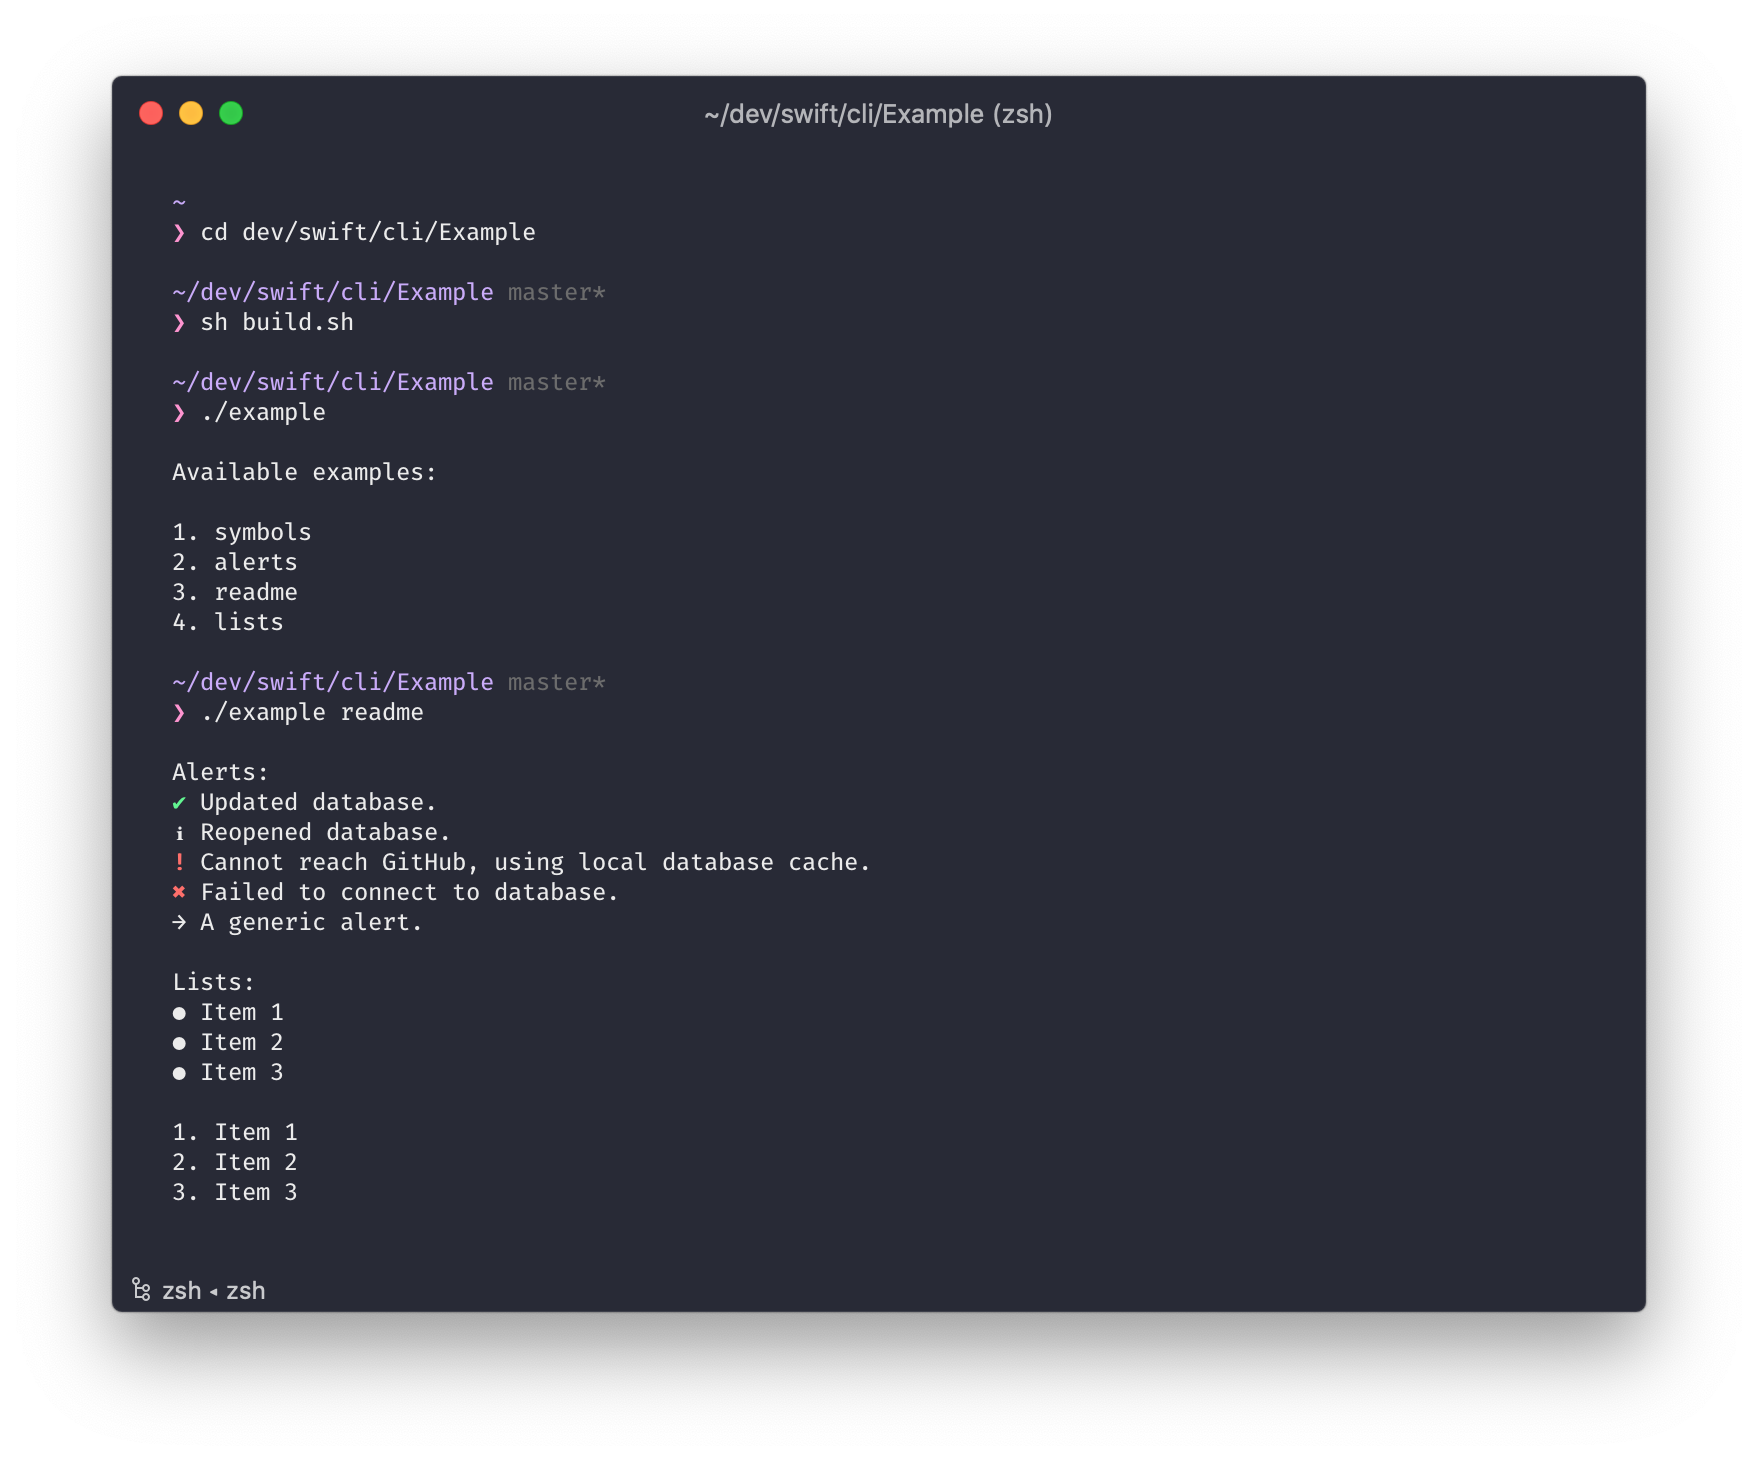
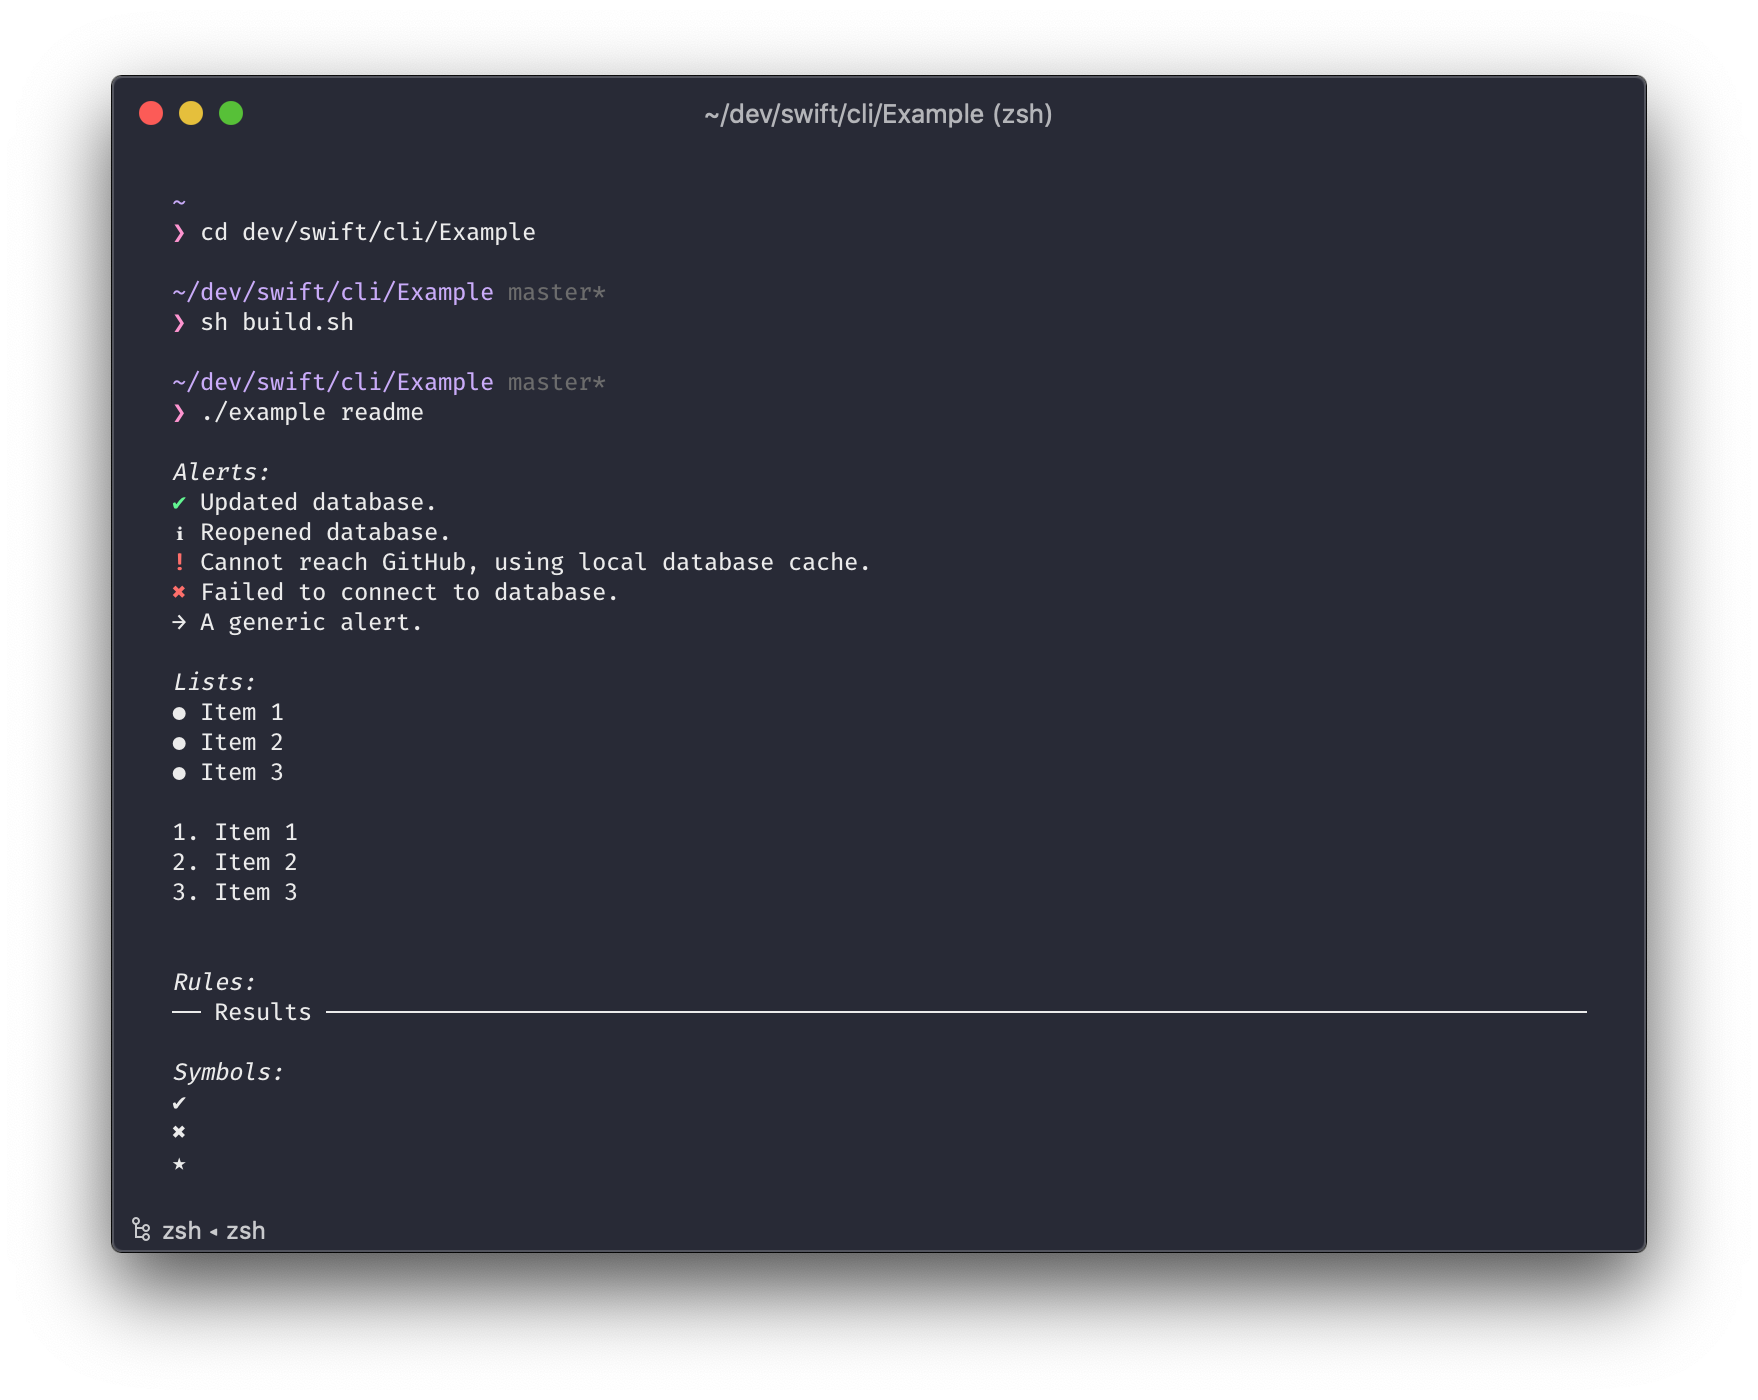
add rules, clean up tomorrow

diff --git a/Example/main.swift b/Example/main.swift
@@ -105,6 +105,9 @@ func PrintReadme() {
     print(UnorderedList("Item 1", "Item 2", "Item 3"))
     print(OrderedList("Item 1", "Item 2", "Item 3"))
     
+    print("\nRules:".italic())
+    print(Rule("Results"))
+    
     print("\nSymbols:".italic())
     print(Symbols.tick)
     print(Symbols.cross)
@@ -121,6 +124,12 @@ func PrintLists() {
     print(OrderedList("Item 1", "Item 2", "Item 3"))
 }
 
+func PrintRules() {
+    print("\nRules\n")
+    
+    print(Rule("Results"))
+}
+
 // Print example information, this is what the user will see if they do not
 // provide any arguments to the example executable.
 func PrintInfo() {
@@ -130,6 +139,7 @@ func PrintInfo() {
     print("2. alerts")
     print("3. readme")
     print("4. lists")
+    print("5. rules")
 }
 
 // As mentioned above, if the argument != 2 i.e. no argument was applied, then
@@ -147,6 +157,7 @@ if CommandLine.arguments.count != 2 {
         case "alerts": PrintAlerts()
         case "readme": PrintReadme()
         case "lists": PrintLists()
+        case "rules": PrintRules()
         default:
             print("Unrecognized command `\(argument)`.")
             PrintInfo()

diff --git a/Sources/cli/cli.swift b/Sources/cli/cli.swift
@@ -1,4 +1,5 @@
 import Foundation
+import Darwin
 
 // Symbol typealias.
 public typealias TerminalSymbol = (String)
@@ -634,4 +635,21 @@ public func OrderedList(_ items: String...) -> String {
         collection += "\(index + 1). \(value)\n"
     }
     return collection
+}
+
+// Terminal dimensions.
+func WindowDimensions() -> (Int, Int) {
+    var w = winsize()
+     _ = ioctl(STDOUT_FILENO, UInt(TIOCGWINSZ), &w);
+     return (Int(w.ws_col), Int(w.ws_row))
+}
+
+// Rule functions.
+public func Rule(_ text: String? = nil) -> String {
+    let x = text ?? ""
+    
+    let w = WindowDimensions()
+    let rule = String(repeating: Symbols.line, count: w.0 - x.count - 4)
+    let final = Symbols.line + Symbols.line + " " + x + " " + rule
+    return(final)
 }

diff --git a/README.md b/README.md
@@ -34,6 +34,9 @@ print(AlertGeneric("A generic alert."))
 print(UnorderedList("Item 1", "Item 2", "Item 3"))
 print(OrderedList("Item 1", "Item 2", "Item 3"))
 
+// Rules
+print(Rule("Results"))
+
 // Symbols
 print(Symbols.tick)
 print(Symbols.cross)
